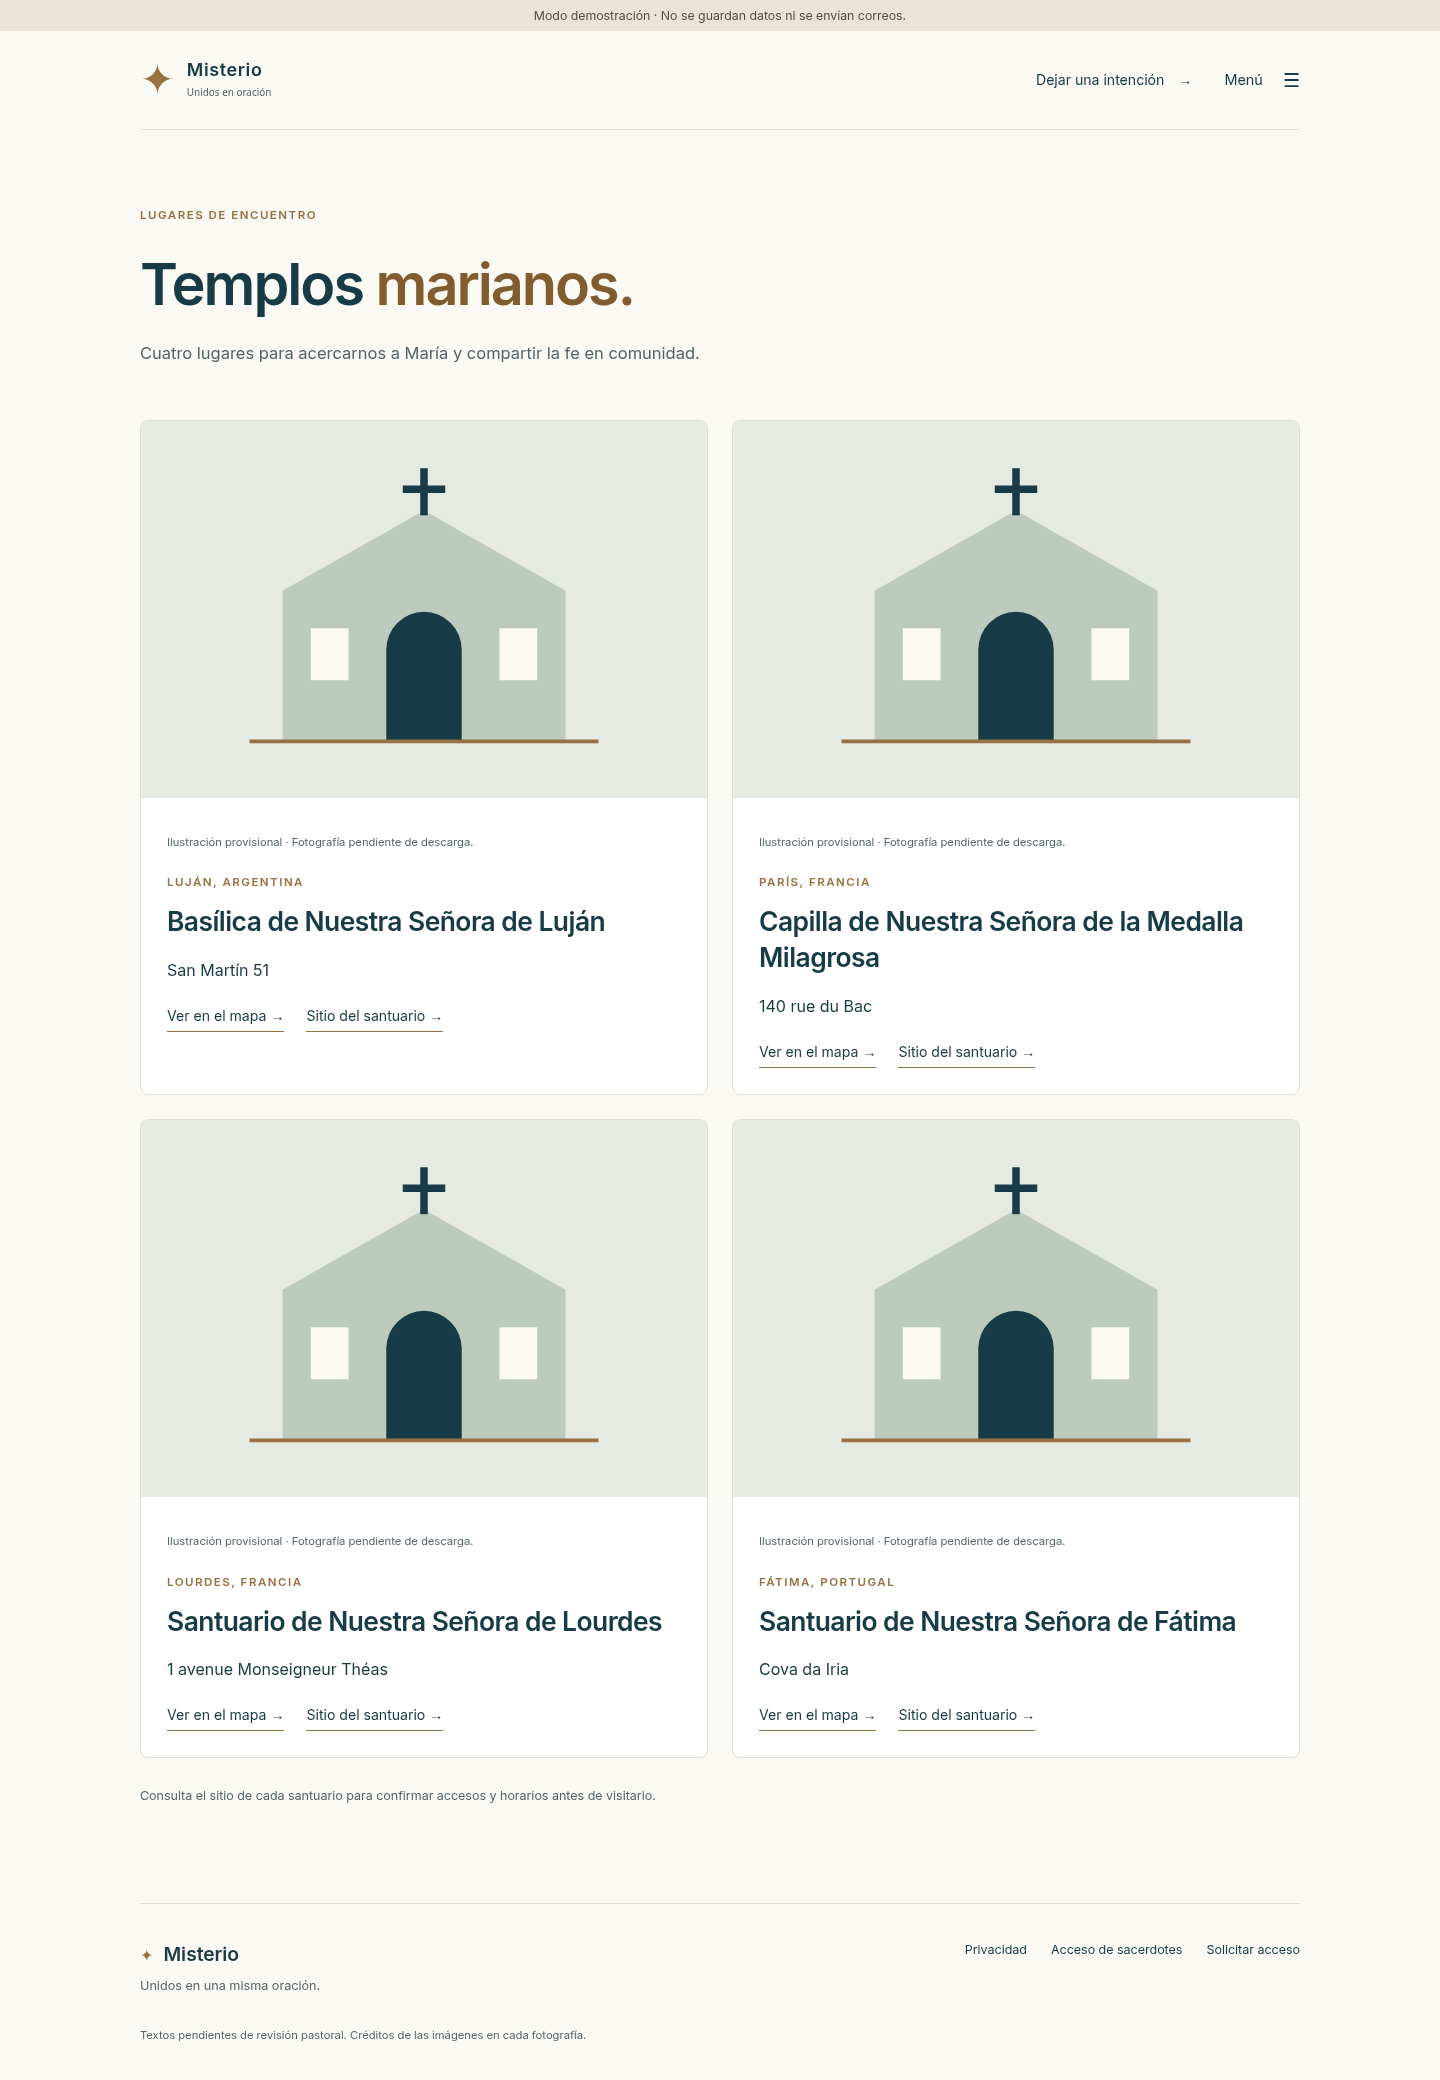
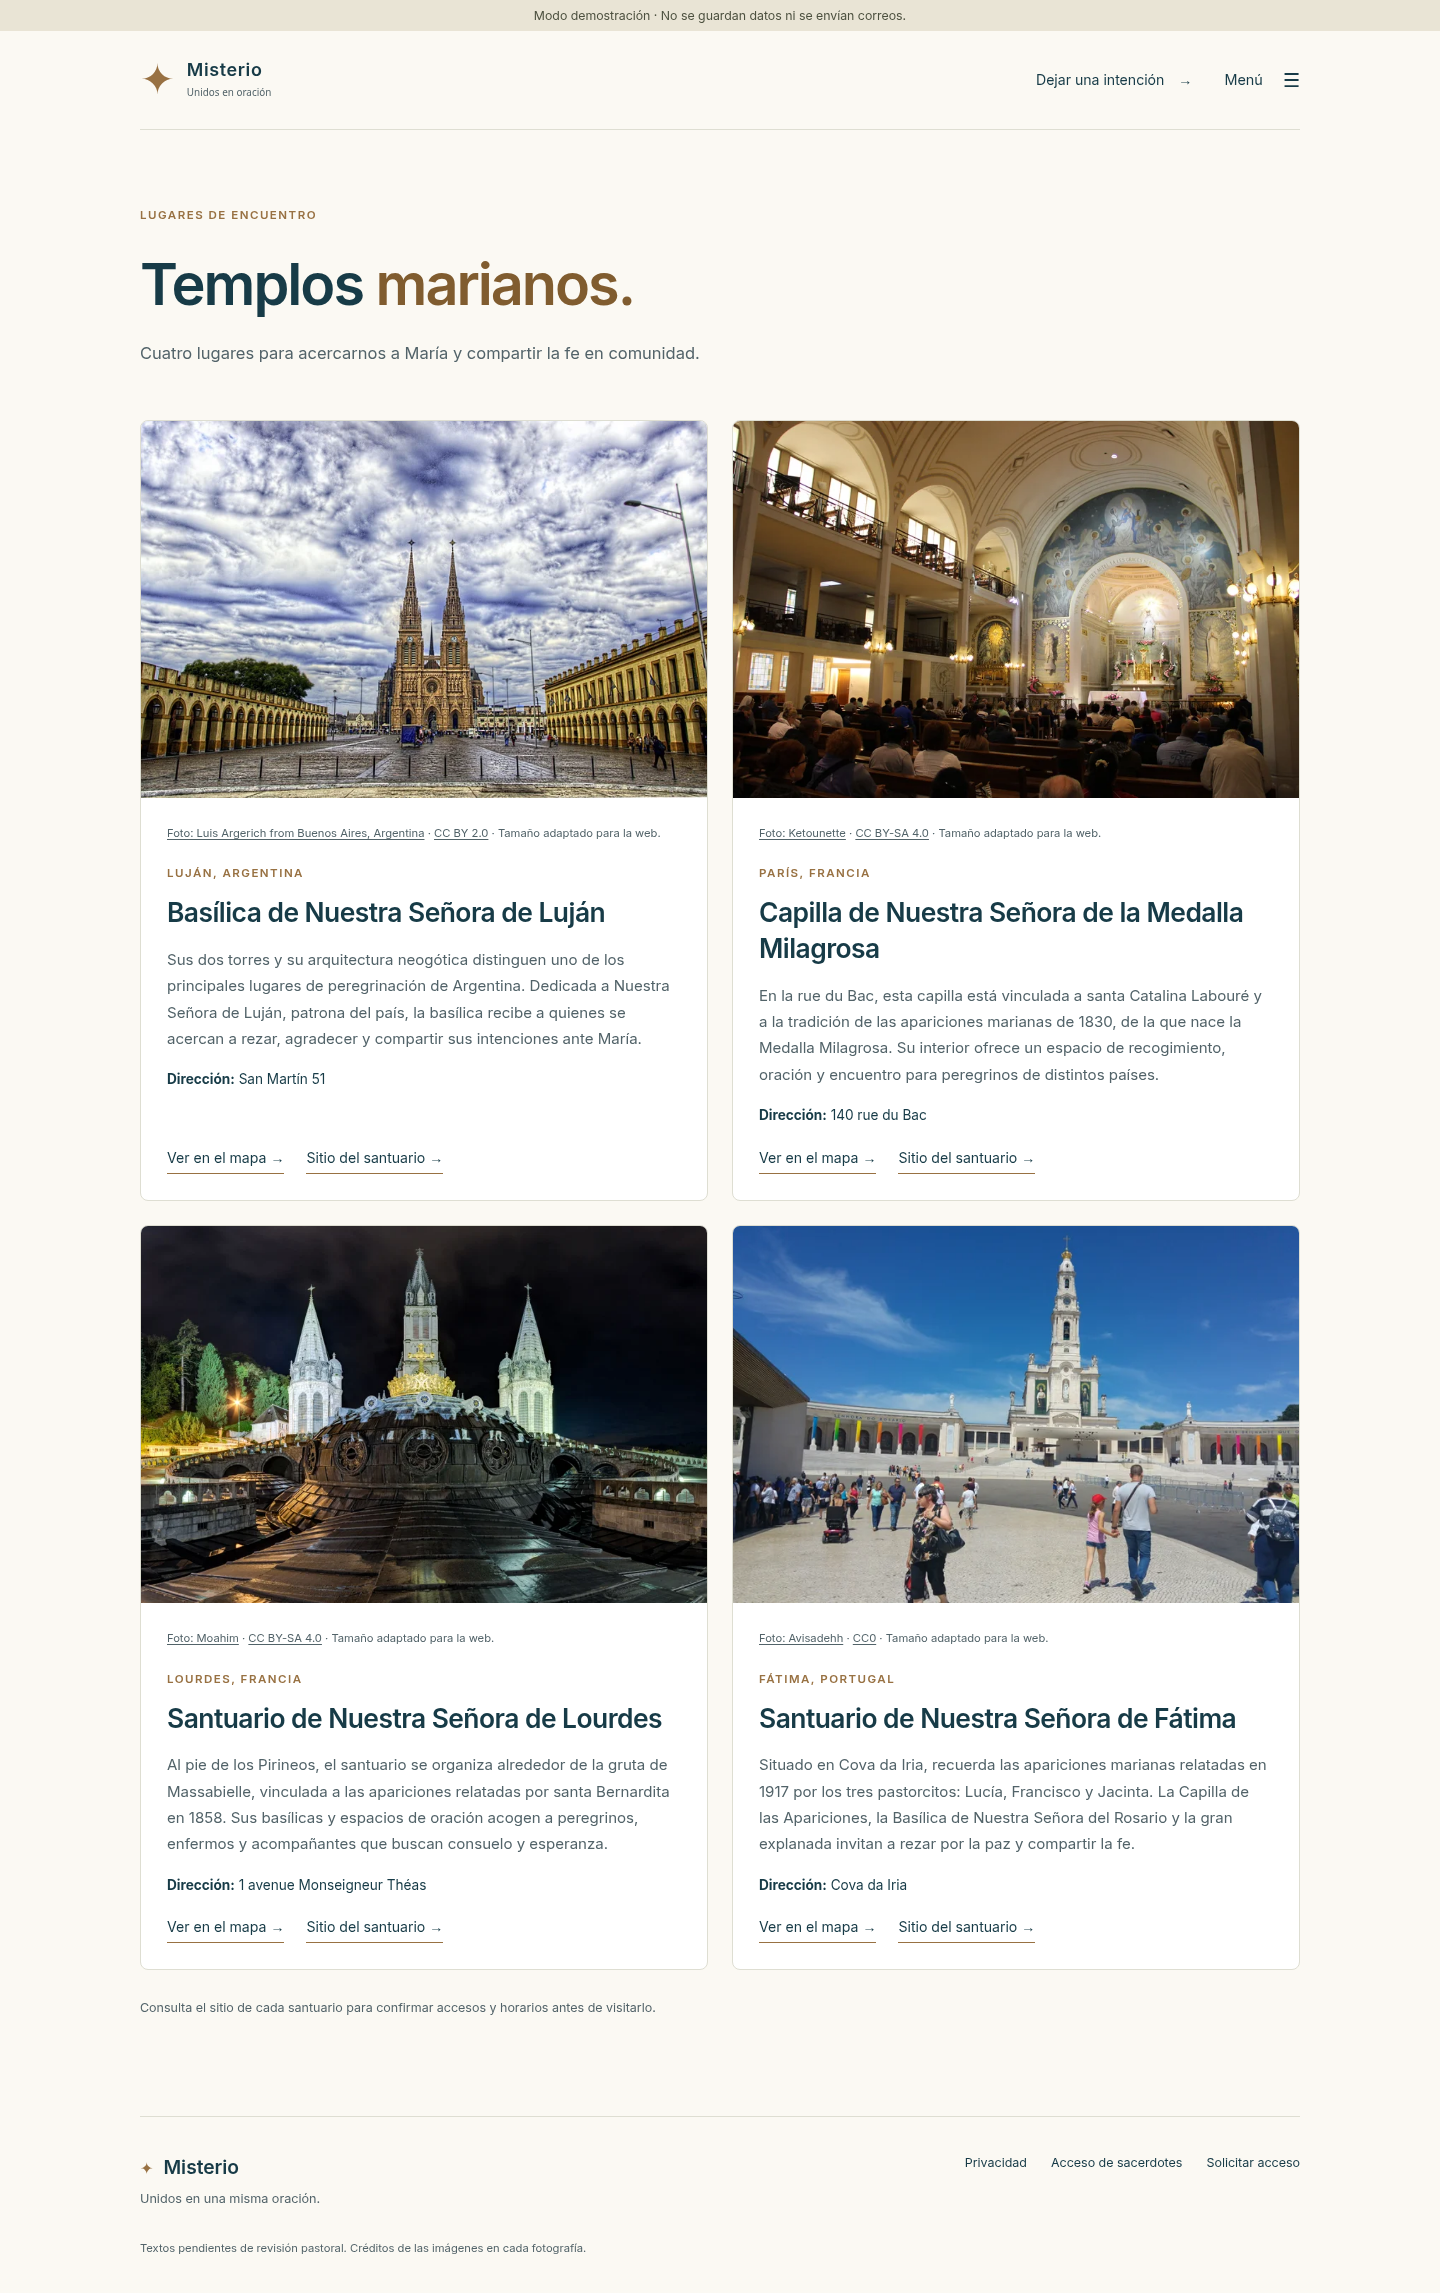
feat: incorporar fotografías reales y descripciones de santuarios

diff --git a/src/content/site.ts b/src/content/site.ts
@@ -23,8 +23,36 @@ export const gallery = [
 ];
 
 export const temples = [
-  { name: 'Basílica de Nuestra Señora de Luján', city: 'Luján, Argentina', address: 'San Martín 51', photoId: 'templo-lujan', website: 'https://basilicadelujan.org.ar/' },
-  { name: 'Capilla de Nuestra Señora de la Medalla Milagrosa', city: 'París, Francia', address: '140 rue du Bac', photoId: 'templo-milagrosa', website: 'https://www.chapellenotredamedelamedaillemiraculeuse.com/' },
-  { name: 'Santuario de Nuestra Señora de Lourdes', city: 'Lourdes, Francia', address: '1 avenue Monseigneur Théas', photoId: 'templo-lourdes', website: 'https://www.lourdes-france.org/' },
-  { name: 'Santuario de Nuestra Señora de Fátima', city: 'Fátima, Portugal', address: 'Cova da Iria', photoId: 'templo-fatima', website: 'https://www.fatima.pt/' },
+  {
+    name: 'Basílica de Nuestra Señora de Luján',
+    city: 'Luján, Argentina',
+    description: 'Sus dos torres y su arquitectura neogótica distinguen uno de los principales lugares de peregrinación de Argentina. Dedicada a Nuestra Señora de Luján, patrona del país, la basílica recibe a quienes se acercan a rezar, agradecer y compartir sus intenciones ante María.',
+    address: 'San Martín 51',
+    photoId: 'templo-lujan',
+    website: 'https://basilicadelujan.org.ar/',
+  },
+  {
+    name: 'Capilla de Nuestra Señora de la Medalla Milagrosa',
+    city: 'París, Francia',
+    description: 'En la rue du Bac, esta capilla está vinculada a santa Catalina Labouré y a la tradición de las apariciones marianas de 1830, de la que nace la Medalla Milagrosa. Su interior ofrece un espacio de recogimiento, oración y encuentro para peregrinos de distintos países.',
+    address: '140 rue du Bac',
+    photoId: 'templo-milagrosa',
+    website: 'https://www.chapellenotredamedelamedaillemiraculeuse.com/',
+  },
+  {
+    name: 'Santuario de Nuestra Señora de Lourdes',
+    city: 'Lourdes, Francia',
+    description: 'Al pie de los Pirineos, el santuario se organiza alrededor de la gruta de Massabielle, vinculada a las apariciones relatadas por santa Bernardita en 1858. Sus basílicas y espacios de oración acogen a peregrinos, enfermos y acompañantes que buscan consuelo y esperanza.',
+    address: '1 avenue Monseigneur Théas',
+    photoId: 'templo-lourdes',
+    website: 'https://www.lourdes-france.org/',
+  },
+  {
+    name: 'Santuario de Nuestra Señora de Fátima',
+    city: 'Fátima, Portugal',
+    description: 'Situado en Cova da Iria, recuerda las apariciones marianas relatadas en 1917 por los tres pastorcitos: Lucía, Francisco y Jacinta. La Capilla de las Apariciones, la Basílica de Nuestra Señora del Rosario y la gran explanada invitan a rezar por la paz y compartir la fe.',
+    address: 'Cova da Iria',
+    photoId: 'templo-fatima',
+    website: 'https://www.fatima.pt/',
+  },
 ].map(temple => ({ ...temple, mapUrl: `https://www.google.com/maps/search/?api=1&query=${encodeURIComponent(`${temple.name}, ${temple.city}`)}` }));

diff --git a/src/styles/global.css b/src/styles/global.css
@@ -10,3 +10,6 @@
 
 .welcome-image{margin:0;min-width:0}.welcome-image img{height:260px;width:100%;object-fit:cover;border-radius:110px 110px 3px 3px}.photo-credit{display:block;font-size:.7rem;font-weight:400;line-height:1.65;color:var(--muted);margin-top:9px;overflow-wrap:anywhere}.photo-credit a{text-decoration:underline;text-underline-offset:2px}.hero-image .photo-credit{color:white;font-size:.65rem}.hero-image .photo-credit span{font-family:var(--sans);font-size:inherit}.original-link{margin-left:10px}.temple-card{background:white;border:1px solid var(--line);border-radius:8px;overflow:hidden}.temple-card>img{width:100%;height:auto;aspect-ratio:3/2;object-fit:cover}.temple-card-body{padding:26px}.temple-card h2{font-size:1.65rem;line-height:1.35;letter-spacing:-.02em}.temple-card .eyebrow{margin:22px 0 12px}.temple-links{display:flex;gap:22px;flex-wrap:wrap}.page-heading h1{font-size:clamp(2.25rem,4vw,3.75rem);line-height:1.25}.page-heading h1 em{display:inline-block}.prayer-detail figcaption{text-align:left}.brand strong,.footer strong{font-weight:600}.brand{font-family:var(--sans)}
 @media(max-width:650px){.hero h1{font-size:clamp(2.4rem,9vw,3.2rem)}.page-heading h1{font-size:2.1rem;line-height:1.35}.welcome-image img{height:230px;max-width:300px;margin:auto}.temple-card-body{padding:21px}.prayer-card h3{line-height:1.4}}
+
+.temple-card{display:flex;flex-direction:column}.temple-card-body{flex:1;display:flex;flex-direction:column}.temple-card-body>.photo-credit{margin-top:0}.temple-description{font-size:.94rem;color:var(--muted);margin:16px 0}.temple-address{font-size:.85rem;margin:0 0 14px}.temple-links{margin-top:auto;align-items:flex-start}.temple-card>img{object-position:center 25%}.prayer-image img{object-position:center 28%}
+.welcome-image img{object-position:center 20%}

diff --git a/public/sw.js b/public/sw.js
@@ -1,5 +1,5 @@
 // Only this explicit list of public, non-personal resources can enter CacheStorage.
-const CACHE = 'misterio-public-v2';
+const CACHE = 'misterio-public-v3';
 const PUBLIC_PATHS = [
   '/', '/templos/', '/privacidad/', '/manifest.webmanifest', '/icon.svg',
   '/icons/icon-192.png', '/icons/icon-512.png',

diff --git a/src/lib/photos.ts b/src/lib/photos.ts
@@ -1,6 +1,7 @@
 import manifest from '../content/photos.json';
 
 export type Photo = {
+  alt?: string;
   src: string;
   variants: { width: number; src: string }[];
   width: number;

diff --git a/docs/VALIDATION.md b/docs/VALIDATION.md
@@ -1,10 +1,12 @@
 # Validación del entorno de desarrollo
 
-Comando ejecutado en `/workspace/Yeivt` después de reinstalar con el lockfile:
+Comprobaciones ejecutadas en `/workspace/Yeivt` para la selección fotográfica, con las dependencias previamente instaladas desde el lockfile:
 
 ```sh
-npm ci --ignore-scripts --cache /workspace/.npm-cache
-CHROMIUM_PATH=/usr/bin/chromium npm run validate
+npm run check
+npm test
+npm run build
+CHROMIUM_PATH=/usr/bin/chromium npm run test:e2e
 ```
 
 Resultado:
@@ -13,7 +15,6 @@ Resultado:
 - 19 pruebas de servidor, PostgreSQL embebido y validación de metadatos de fotos: aprobadas, sin omisiones.
 - Compilación estática: 13 páginas generadas.
 - 9 pruebas en Chromium: aprobadas, sin omisiones; incluye la fuente Inter sin conexión y la lista de cuatro templos.
-- Auditoría de dependencias de producción: sin vulnerabilidades reportadas en la ejecución.
 
 Las pruebas cubren validación del formulario, consentimiento, captcha mediante mock, rechazo de orígenes ajenos, límite de tamaño de solicitudes, verificación de administradores, permisos anónimos y de miembros no aprobados, separación del correo, asignación/propiedad, finalización idempotente, devolución, límites por correo, bloqueos de envío, reintentos y eliminación de datos antiguos.
 
@@ -27,5 +28,8 @@ Capturas de interfaces en modo demostración:
 - [Inicio en celular](screenshots/inicio-movil.png)
 - [Panel de sacerdotes](screenshots/panel-sacerdotes.png)
 - [Templos marianos](screenshots/templos.png)
+- [Siete oraciones con sus fotografías](screenshots/oraciones.png)
 
-Las fotografías de Wikimedia siguen pendientes de descarga por el bloqueo de red; los metadatos se probaron con fixtures y la interfaz muestra ilustraciones provisionales. No se afirma una importación real de fotografías ni validación de licencias de archivos aún no descargados.
+Se descargaron once fotografías reales desde Wikimedia Commons y se conservaron los metadatos de autor, licencia y fuente. La revisión visual identificó los motivos antes de incorporarlos. Una comprobación adicional en Chromium verificó las trece apariciones de fotos del inicio, las cuatro de santuarios, sus descripciones y la decodificación de imágenes sin conexión. La página de santuarios no presenta desbordamiento horizontal en anchos de 320, 390, 768 y 1440 píxeles. No se observaron errores de JavaScript en ese recorrido.
+
+Estas capturas muestran la propuesta local; no acreditan que se haya subido a GitHub o publicado en Cloudflare.

diff --git a/docs/PHOTOS.md b/docs/PHOTOS.md
@@ -2,7 +2,11 @@
 
 Las fotografías deben descargarse de fuentes con licencia que permita publicar y adaptar la imagen. Esta versión incorpora un importador de Wikimedia Commons. No se asume que una foto encontrada en internet sea reutilizable.
 
-El entorno de Codex bloqueó conexiones a `commons.wikimedia.org` y `upload.wikimedia.org`. Los dominios se añadieron al borrador de configuración, pero guardar el borrador no aplica la política al proceso actual. Hasta habilitar ese acceso y completar la importación, `src/content/photos.json` permanece vacío y las páginas muestran ilustraciones expresamente identificadas como provisionales. **Todavía no se descargaron fotografías reales.**
+La selección actual incluye **11 fotografías reales de Wikimedia Commons**: siete imágenes devocionales para las oraciones y cuatro de los santuarios. Se sirven desde el propio sitio en 33 versiones WebP de 480, 800 y 1200 píxeles, sin ampliar los originales. `src/content/photos.json` conserva para cada foto el autor, la licencia, la fuente, la URL original y un texto alternativo que identifica el motivo. Las ilustraciones propias permanecen como respaldo si falta una fotografía.
+
+La imagen principal de Luján es una réplica fotografiada por Photo-Monique; no se presenta como la imagen original de la basílica. La Medalla Milagrosa está representada por una estatua en Columbus, Ohio, fotografiada por Nheyob. Las imágenes de Lourdes muestran la gruta de Massabielle. Las de Fátima conservan las identificaciones de sus páginas de origen. Las fotografías de templos corresponden a Luján, la capilla de la rue du Bac en París, Lourdes y Fátima.
+
+Los textos breves de los santuarios están en `src/content/site.ts`, junto con sus direcciones y enlaces oficiales. Describen su ubicación, devoción y espacios de oración; los horarios se consultan en el sitio de cada santuario.
 
 ## Importar una fotografía
 

diff --git a/README.md b/README.md
@@ -71,7 +71,7 @@ Las claves privadas de Supabase, Resend y Turnstile y la clave del trabajador se
 
 Editar `src/content/site.ts` para modificar las siete oraciones o agregar templos reales. Es una selección inicial de textos tradicionales e instrucciones; requiere revisión pastoral. Las cuatro advocaciones propuestas por el documento son Luján, Medalla Milagrosa, Lourdes y Fátima.
 
-Las imágenes se gestionan con `src/content/photos.json`, versiones WebP responsive y créditos visibles. El importador de [docs/PHOTOS.md](docs/PHOTOS.md) descarga fotografías de Wikimedia con autor y licencia compatible. Hasta completar la descarga, las ilustraciones SVG propias siguen identificadas como provisionales. No se incluyeron las fotos de las páginas del documento como imágenes devocionales. La tipografía Inter se aloja localmente y no requiere conexión a Google Fonts.
+Las imágenes se gestionan con `src/content/photos.json`, versiones WebP responsive y créditos visibles. El importador de [docs/PHOTOS.md](docs/PHOTOS.md) descarga fotografías de Wikimedia con autor y licencia compatible. Incluye once fotografías reales: siete imágenes devocionales y cuatro de los santuarios, con sus descripciones. Las ilustraciones SVG propias quedan como respaldo si falta una foto. No se incluyeron las fotos de las páginas del documento como imágenes devocionales. La tipografía Inter se aloja localmente y no requiere conexión a Google Fonts.
 
 La lista incluye Luján, la Capilla de la Medalla Milagrosa en París, Lourdes y Fátima, con dirección de referencia, mapa y sitio del santuario. Confirmar accesos y horarios en cada sitio antes de visitar. La página de privacidad es un borrador y debe completarse con responsable, contacto, plazos aprobados y requisitos de la jurisdicción antes de publicar.
 
